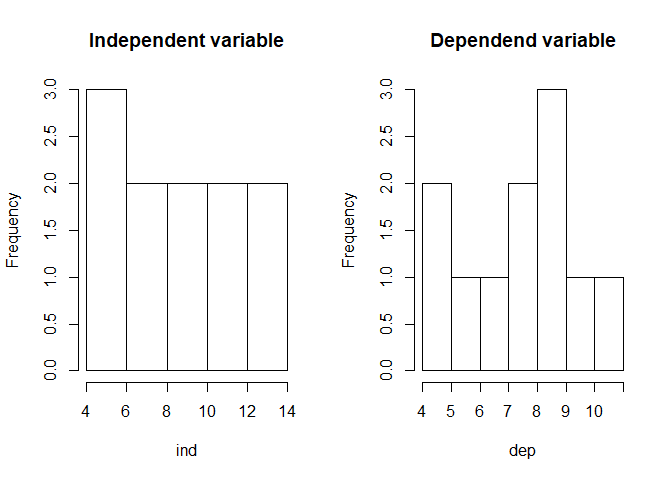
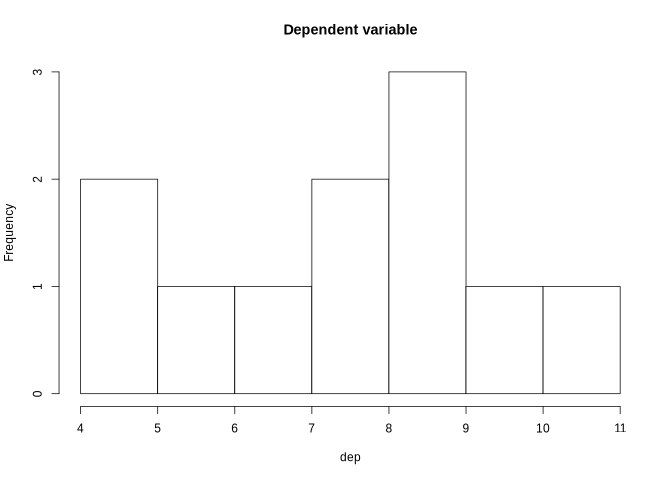
fixed typo; improved text; updated figures to match code

diff --git a/docs/units/_unit03/unit03-06_exploration.md b/docs/units/_unit03/unit03-06_exploration.md
@@ -11,7 +11,7 @@ header:
 
 Visual data exploration should be one of the first steps in data analysis. In fact, it should start right after reading a data set. The following examples are based on a data set showing the percentage fraction of settlement, recreational, agricultural, and forest areas for each rural district in Germany. The data has been provided through the [Regional Database Germany](https://www.regionalstatistik.de/genesis/online/).
 
-Within this example, we will focus on basic R graphics. Of course, all of the example could also be realized using more advanced plotting libraries like `lattice` or `ggplot`.
+Within this example, we will focus on basic R graphics. Of course, all of the examples could also be realized using more advanced plotting libraries like `lattice` or `ggplot`.
 
 
 
@@ -52,7 +52,7 @@ boxplot(lu[, numc])
 
 ![]({{ site.baseurl }}/assets/images/rmd_images/vis_dat_expl/unnamed-chunk-3-1.png)<!-- -->
 
-As can be seen, outliers in terms of the box-plot logic are clearly identifieable although this logic does not actually proof if an observation is an outlier. Hence, one has to cross-check the data and if there is no actual sign for an outliers, then keep the data as is! However, since "outliers"" might have a strong influence on further analyisis, one could check some kind of transformation to reduce the value range. The following example shows a root and logarithmic transformation. In order to distinguish the plots, we add a title using the `main` parameter:
+As can be seen, outliers in terms of the box-plot logic are clearly identifiable although this logic does not actually proof if an observation is an outlier. Hence, one has to cross-check the data and if there is no actual sign for an outliers, then keep the data as is! However, since "outliers"" might have a strong influence on further analyisis, one could check some kind of transformation to reduce the value range. The following example shows a root and logarithmic transformation. In order to distinguish the plots, we add a title using the `main` parameter:
 
 ```r
 par_org <- par()
@@ -86,7 +86,7 @@ hist(lu$Settlement)
 ## QQ plots
 While historgramms just give an idea, QQ plots give a more reliable estimate if a data set follows a specific distribution.
 
-If you are just interested in a normal distribution, you can use `qqnorm` for this. In order to ease the interpretation, we will also add a theoretical line which runs through the 25% and 75% quartile. If your data does not deviate considerably from this line, chances are high that it actually follows the theoretical distributino used to compute the plot (in the following case, this is a normal distribution):
+If you are just interested in a normal distribution, you can use `qqnorm` for this. In order to ease the interpretation, we will also add a theoretical line which runs through the 25% and 75% quartile. If your data does not deviate considerably from this line, chances are high that it actually follows the theoretical distribution used to compute the plot (in the following case, this is a normal distribution):
 
 ```r
 qqnorm(lu$Agriculture)
@@ -161,14 +161,8 @@ plot(lu$Settlement, lu$Recreation)
 ```
 
 ![]({{ site.baseurl }}/assets/images/rmd_images/vis_dat_expl/unnamed-chunk-10-1.png)<!-- -->
-The axis lables are just the column names of the data frame but for this stage of data analysis, this is more than fine. If you finally decide which graphic should be included in a final presentation (e.g. publication), then the right time for nice lables and other stuff has come. But priot to that, pimping is just a waste of time.
 
-
-```r
-plot(lu$Settlement, lu$Recreation)
-```
-
-![]({{ site.baseurl }}/assets/images/rmd_images/vis_dat_expl/unnamed-chunk-11-1.png)<!-- -->
+The axis lables are just the column names of the data frame but for this stage of data analysis, this is more than fine. If you finally decide which graphic should be included in a final presentation (e.g. publication), then the right time for nice lables and other stuff has come. But prior to that, pimping is just a waste of time.
 
 If you are interested in the relation between all (or many) variables in your dataset, just supply the entire data frame or a column subset of it to `plot`:
 

diff --git a/docs/units/_unit05/unit05-03_linear_regression.md b/docs/units/_unit05/unit05-03_linear_regression.md
@@ -10,7 +10,7 @@ header:
 Linear regression modelling is one of the more common tasks in data analysis and the following example will cover the very basic topic of bivariate linear regression. The storyline follows the one from Zuur et al. (2007) to a certain degree.
 
 While one could use actual data sets, we keep it controled by using an artificial data set originally compiled by [Francis Anscombe](https://en.wikipedia.org/wiki/Anscombe%27s_quartet). 
-The [anscombe dataset](https://stat.ethz.ch/R-manual/R-devel/library/datasets/html/anscombe.html) comes as bart of base R. 
+The [anscombe dataset](https://stat.ethz.ch/R-manual/R-devel/library/datasets/html/anscombe.html) comes as part of base R. 
 For now, we will use x1 as independent variable and y1 as dependent variable.
 
 ```r
@@ -20,12 +20,12 @@ dep <- anscombe$y1
 par_org <- par()
 par(mfrow = c(1,2))
 hist(ind, main = "Independent variable")
-hist(dep, main = "Dependend variable")
+hist(dep, main = "Dependent variable")
 ```
 
 ![]({{ site.baseurl }}/assets/images/rmd_images/e05-02/unnamed-chunk-1-1.png)<!-- -->
 
-A look at the relationship between the variables by using a scatterplot justifies a linear modelling attemp. Fitting a bivariate linear model to the data set would result in the function shown in the plot and visualized by the red line.
+A look at the relationship between the variables by using a scatterplot justifies a linear modelling attempt. Fitting a bivariate linear model to the data set would result in the function shown in the plot and visualized by the red line.
 
 ```r
 library(car)
@@ -58,7 +58,7 @@ The associated variances are:
 * The variance of the fitted values, i.e. the difference between the predicted values of y' and the mean over all observations of y. This will be called the *model variance*.
 * The variance of the residual values, i.e. the difference between the predicted values y' and the observed values y. This will be called *residual variance*.
 
-Together, model and residual variance equals the total variance. 
+The sum of model and residual variance equals the total variance.
 
 Commonly, all variances are squared and summed up over all observations which gives us the _sum of squares_ observed (or total), the sum of squares of the model and the sum of squares of residuals.
 
@@ -83,9 +83,9 @@ mss_model <- ss_model / 1
 mss_resid <- ss_resid / (length(lmod$model$dep) - 2)
 ```
 
-It can be shown that for large sample sizes, the mean squared error (mss_resid) equals the squared variance of the population. In this case, the mean squared model error (mss_model) also equals the squared variance but additionally considers the sum of squares over all x values multiplied by the slope of the regression model. In other words, 
+It can be shown that for large sample sizes, the mean squared residual error (mss_resid) equals the squared variance of the population. In this case, the mean squared model error (mss_model) also equals the squared variance but additionally considers the sum of squares over all x values multiplied by the slope of the regression model. In other words, 
 
-* if the slope is zero, then mean squared and model error are equal and the ration of both is 1.
+* if the slope is zero, then mean squared residual error and mean squared model error are equal and the ration of both is 1.
 * if the slope is not zero, then mean squared model error is larger than the mean squared error and the ratio is larger than 1. 
 
 This provides us the test statistic for the *null-hypothesis* that the true slope is not different from 0.
@@ -128,7 +128,7 @@ anova(lmod)
 ```
 
 
-**Exercise**. Now you can check your knowledge and strengthen your plotting skills by writing code to rebuild the linear regression scaterplot from the previous page.
+**Exercise**. Now you can check your knowledge and strengthen your plotting skills by writing code to rebuild the linear regression scatterplot from the previous page.
 When coding, think about the meaning of slope, intercept, observed variance, model variance, residual variance, and the different types of sum of squares.
 {: .notice--success}
 

diff --git a/docs/units/_unit04/unit04-03_datetime.md b/docs/units/_unit04/unit04-03_datetime.md
@@ -53,8 +53,8 @@ as.POSIXlt("01.01.2014 13:30:35", format = "%m.%d.%Y %H:%M:%S")
 ```
 ## [1] "2014-01-01 13:30:35 CET"
 ```
-For an overview of the formatting syntax see the help pages of the `strptime`
-function which handles the conversion. The latter function can also be used
+For an overview of the formatting syntax, see the help pages of the `strptime`
+function, which handles the conversion. The latter function can also be used
 directly for converting character information to POSIXlt:
 
 ```r
@@ -74,7 +74,7 @@ class(lt)
 ## [1] "POSIXlt" "POSIXt"
 ```
 This function is faster than `as.POSIXlt` if the time format
-is supplied the ISO way. Otherwise (and maybe even in this case), just forget 
+is supplied in the ISO way. Otherwise (and maybe even in this case), just forget 
 about it.
 
 Aside from theory, a pratical difference between the POSIXct and POSIXlt class
@@ -103,7 +103,7 @@ lt
 ```
 
 To convert a POSIX information back to a character string, one can use the
-`strftime` function whichs allows precise formatting of the data/time string and
+`strftime` function which allows precise formatting of the data/time string and
 also has an option for time zone conversion.
 
 ```r
@@ -125,7 +125,7 @@ Please note that the time zone conversion only works for POSIXct.
 
 
 Finally, if you want to substract two date/time values, you can use the
-resoectuve arithmetic operation or the difftime function to control the layout of
+arithmetic operation or the difftime function to control the layout of
 the result (see the help pages of `strptime` for an overview of the layout 
 specifications).
 

diff --git a/docs/units/_unit04/unit04-01b_clean_your_data.md b/docs/units/_unit04/unit04-01b_clean_your_data.md
@@ -9,11 +9,12 @@ header:
 ## Cleaning 101
 Cleaning dataset is a standard procedure in data analysis and the most annoying. It can be quite time consuming but it is the most important step in data analysis. If your data base is incorrect, the analysis results and your scientific study is not reliable. Hence, carefully check your data and clean it thoroughly.
 
-To start with, Hadley Wickham suggest the following:
+To start with, Hadley Wickham suggests the following:
 * separate column for each variable 
 * exactly one kind of information per variable
 * separate row for each observation
 * separate data set for each kind of observation
+
 See [Wickham (2012)](https://www.jstatsoft.org/article/view/v059i10){:target="_blank"} for more on these topics.
 
 Note that one cannot provide a complete list of check and cleaning tasks since the workflow always depends on the actual dataset.

diff --git a/docs/units/_unit03/unit03-04_csv_io.md b/docs/units/_unit03/unit03-04_csv_io.md
@@ -35,11 +35,11 @@ then the sequence matters. To get information on the default sequence and of
 course the general application of the each R function, type `?<function name>`
 (e.g. `?read.table`) in an R console.
 
-After you executing the `read.table` function above, the content of the csv file is
+After you execute the `read.table` function above, the content of the csv file is
 stored into a two dimensional data frame called `df` in the example above. 
 
 A quick way to check if everything is fine is to display the first few lines of
-the data file using the `head` function (without the 2, it will print 5 lines as a standard setting).
+the data file using the `head` function (without the 2, it will print 6 lines as a standard setting).
 
 ```r
 head(df, 2)

diff --git a/docs/units/_unit03/unit03-05_aggregating.md b/docs/units/_unit03/unit03-05_aggregating.md
@@ -163,7 +163,7 @@ aggregate(df[,3:4], by = list(df$Cat1), FUN = median)
 ## 2       B  3.5   35
 ## 3       C  3.0   30
 ```
-Please note that the grouping elements (parameter "by") have to supplied as list
+Please note that the grouping elements (parameter "by") have to be supplied as list
 so if you want to use a column of a data frame, use the `list` function to convert
 the factor to a list.
 

diff --git a/docs/units/_unit04/unit04-02_na.md b/docs/units/_unit04/unit04-02_na.md
@@ -16,7 +16,7 @@ it is not a string but a special type of logical data type.
 ```r
 x <- c("A", "B", NA, "D")
 ```
-To check, if the vector has one or more "not available" values, use the 
+To check if the vector has one or more "not available" values, use the 
 `is.na` function.
 
 ```r
